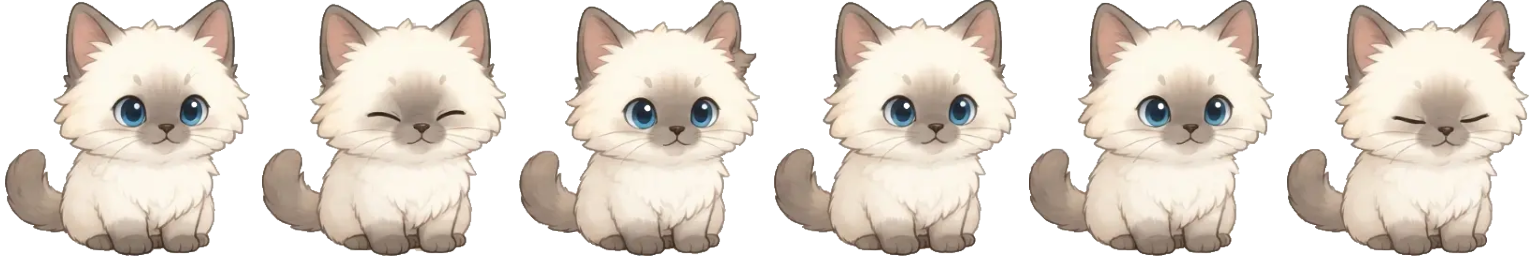
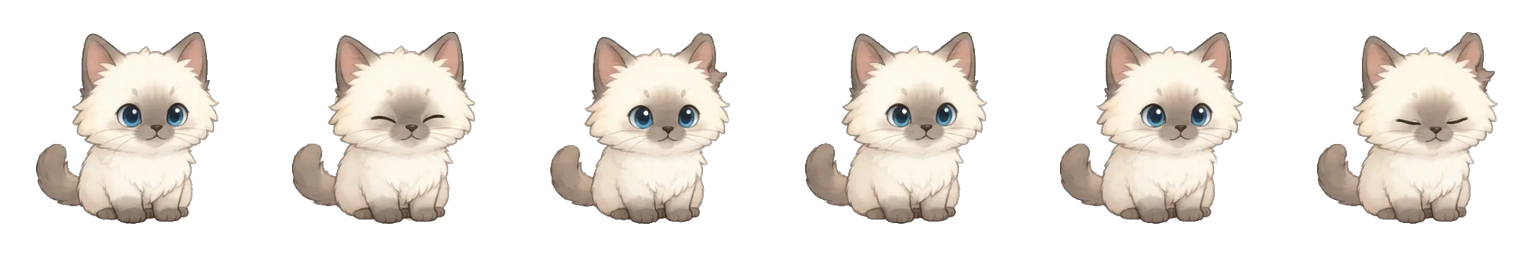
them meo himalaya scottish và trạng thái vanish

diff --git a/lib/game/meow_shelter_game.dart b/lib/game/meow_shelter_game.dart
@@ -3,7 +3,7 @@ import 'dart:math';
 import 'package:flame/game.dart';
 import 'package:flame/components.dart';
 
-import 'components/orange_cat.dart';
+import 'components/cat_component.dart';
 import 'constants.dart';
 
 class MeowShelterGame extends FlameGame {
@@ -23,12 +23,34 @@ class MeowShelterGame extends FlameGame {
       ),
     );
 
-    // Spawn vài con mèo cam ở vị trí random
-    const catCount = 4;
-    for (var i = 0; i < catCount; i++) {
-      final x = _random.nextDouble() * (size.x - catWidth);
-      final y = size.y * 0.3 + _random.nextDouble() * (size.y * 0.5);
-      add(OrangeCat(position: Vector2(x, y)));
+    // Spawn 3 mèo cam
+    for (var i = 0; i < 3; i++) {
+      add(CatComponent(
+        position: _randomCatPosition(),
+        catType: 'orange',
+      ));
     }
+
+    // Spawn 3 mèo himalaya
+    for (var i = 0; i < 3; i++) {
+      add(CatComponent(
+        position: _randomCatPosition(),
+        catType: 'himalaya',
+      ));
+    }
+
+    // Spawn 3 mèo scottish
+    for (var i = 0; i < 3; i++) {
+      add(CatComponent(
+        position: _randomCatPosition(),
+        catType: 'scottish',
+      ));
+    }
+  }
+
+  Vector2 _randomCatPosition() {
+    final x = _random.nextDouble() * (size.x - catWidth);
+    final y = size.y * 0.3 + _random.nextDouble() * (size.y * 0.5);
+    return Vector2(x, y);
   }
 }

diff --git a/lib/game/constants.dart b/lib/game/constants.dart
@@ -24,6 +24,8 @@ const int framesDropWrong = 5;
 const int framesPanic = 4;
 const int framesDashEscape = 6;
 const int framesCelebrate = 5;
+const int framesVanish = 6;
 
 // Tốc độ animation (step time giữa mỗi frame)
 const double animationStepTime = 0.12;
+const double vanishStepTime = 0.22;